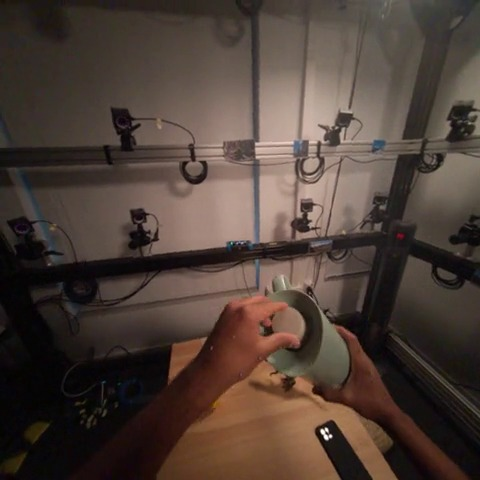
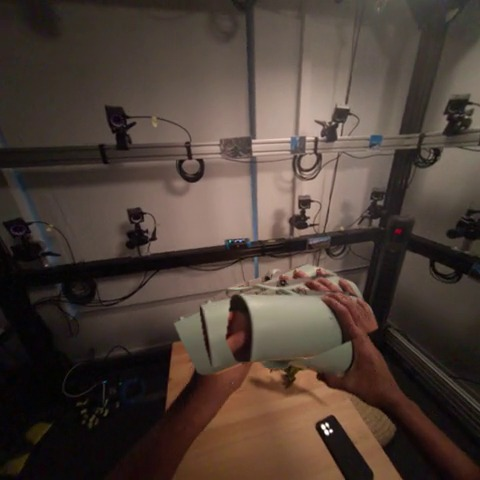
DAVIS + HOT3D: pull motion5-deployed data; EgoDex pred-start endpoint
DAVIS flamingo + car-turn: replace local 18-frame fulleval rebuilds
with motion5-viz's exact deployed JSONs (3 hist + 30 future, 88 / 72
points). Same path: download from hellomuffin.github.io, run
prepare_clip_simple.py.

HOT3D 002658 / 003137 / 002562: replace MoGe-dense single-clip bundles
with motion5-viz's hotworld JSONs (3 hist + 12 future, 80 / 88 / 40
points, GT + pred trails + sparse PC). viewer_defaults set to
showGT=false / showPred=true so the prediction trail is the visible
default and the GT trail is hidden — what was asked. Drops the
gt3d.bin / cam.bin / pc_dist.bin / clipframes/ that the dense-cloud
bundles shipped (motion5-style bundles don't use them).

EgoDex / DROID / HD-EPIC endpoint spheres: now mark BOTH frame 0 and
the first predicted frame (n_hist), so the pred-start anchor is visible
in the 3D scene alongside the existing trajectory-start anchor.

diff --git a/index.html b/index.html
@@ -430,8 +430,8 @@ footer a { color: #2563eb; text-decoration: none; }
           </optgroup>
           <optgroup label="DAVIS">
             <option value="static/data/camel_camal_t2.json">camel_camal · t2</option>
-            <option value="static/data/flamingo_flamingo_t6.json">flamingo_flamingo · t6</option>
-            <option value="static/data/car-turn_silver_car_t3.json">car-turn_silver_car · t3</option>
+            <option value="static/data/flamingo_flamingo_t2.json">flamingo_flamingo · t2</option>
+            <option value="static/data/car-turn_silver_car_t2.json">car-turn_silver_car · t2</option>
           </optgroup>
           <optgroup label="HOT3D">
             <option value="static/data/hot3d_clip1995_clip1996.json">clip-001995 → clip-001996 · cross-clip stitched scene (MoGe @ first frame)</option>
@@ -3040,14 +3040,19 @@ class Panel {
         push(qPt);
       }
     } else {
-      // Legacy non-HOT3D bundles (EgoDex / DROID / HD-EPIC). Per user spec,
-      // only the START anchor is drawn — the end-of-clip / end-of-pred
-      // markers were noisy ("a bunch of yellow dots floating where the track
-      // disappears") and didn't add much signal, so we drop them.
+      // Legacy non-HOT3D bundles (EgoDex / DROID / HD-EPIC). Two markers per
+      // track: (1) the START anchor at frame 0 (gt_3d), and (2) the
+      // pred-start at frame n_hist (pred_3d) — i.e. the first predicted
+      // frame, marking where the model's trajectory begins. The
+      // end-of-clip / end-of-pred markers were noisy ("yellow dots floating
+      // where the track disappears") so we don't draw those.
       const T_clip = cfg.gt_3d?.length || 0;
       if (T_clip === 0) return;
+      const nHist = cfg.n_hist || 0;
       for (const p of idx) {
         if (this.opts.showGT) push(cfg.gt_3d[0]?.[p]);
+        if (this.opts.showPred && nHist > 0 && nHist < T_clip)
+          push(cfg.pred_3d?.[nHist]?.[p]);
       }
     }
     if (!records.length) return;